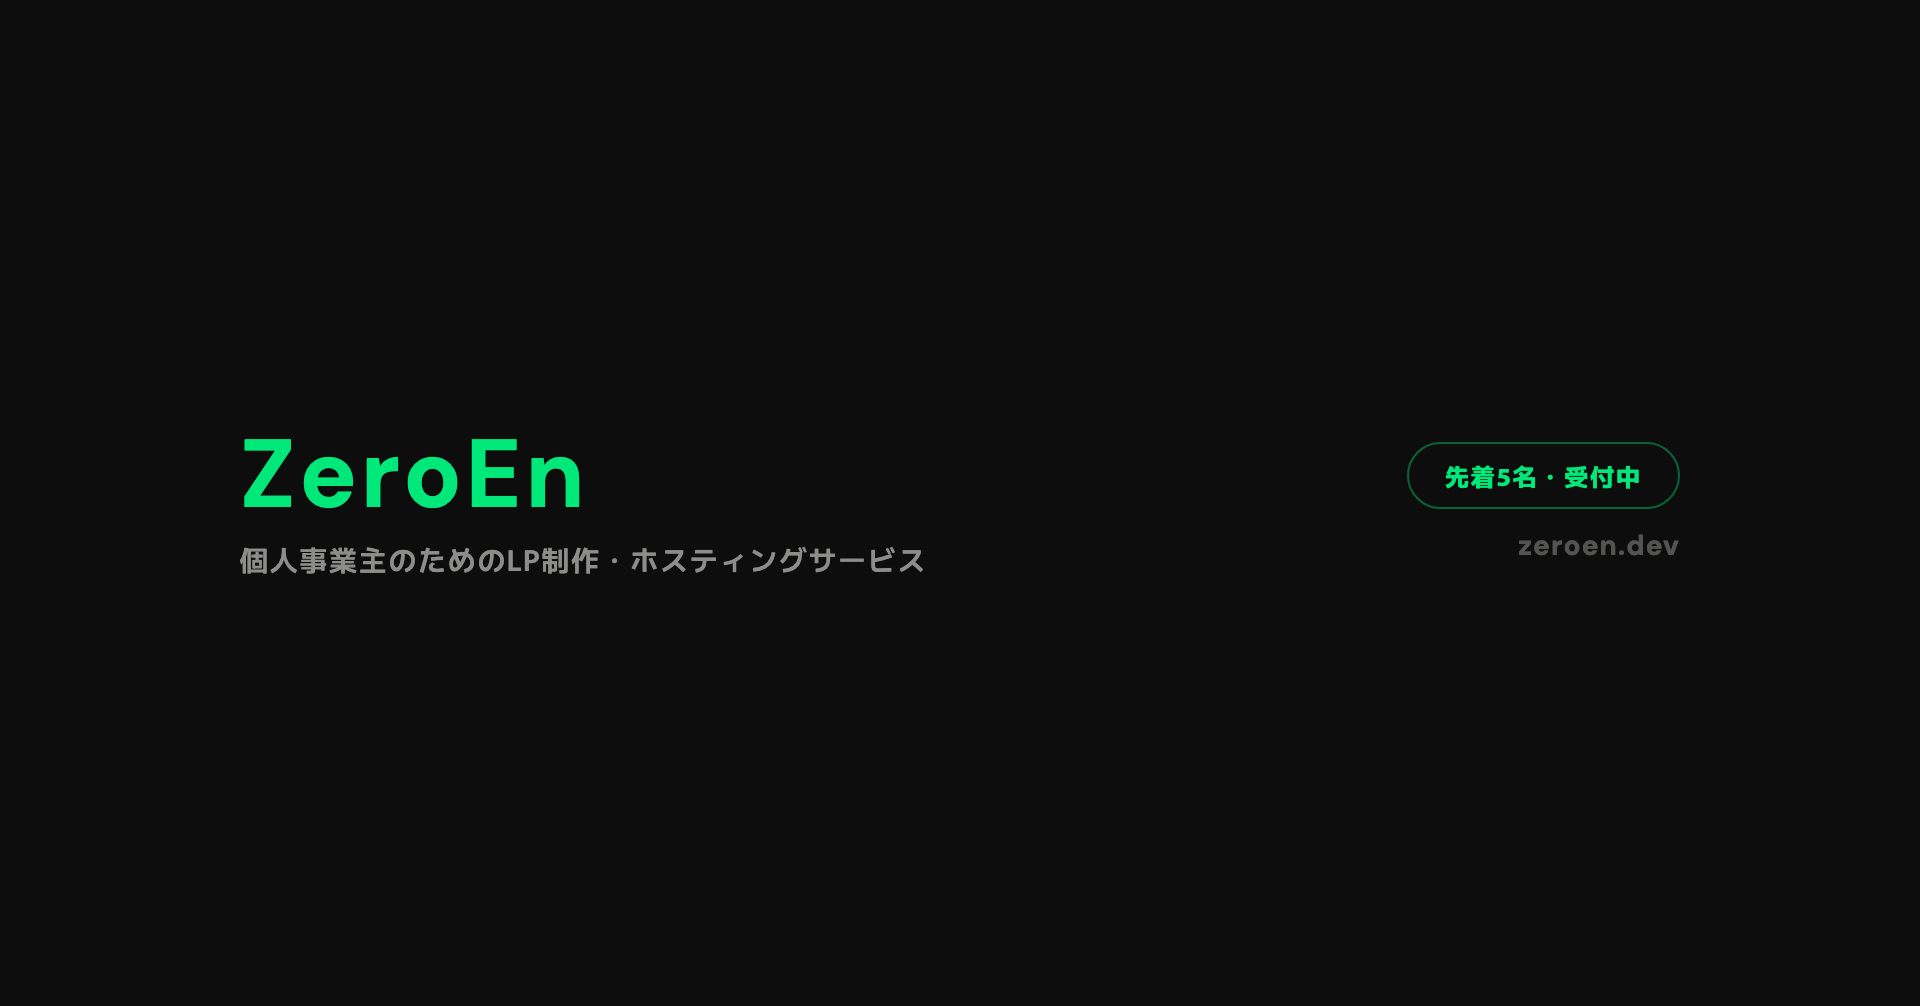
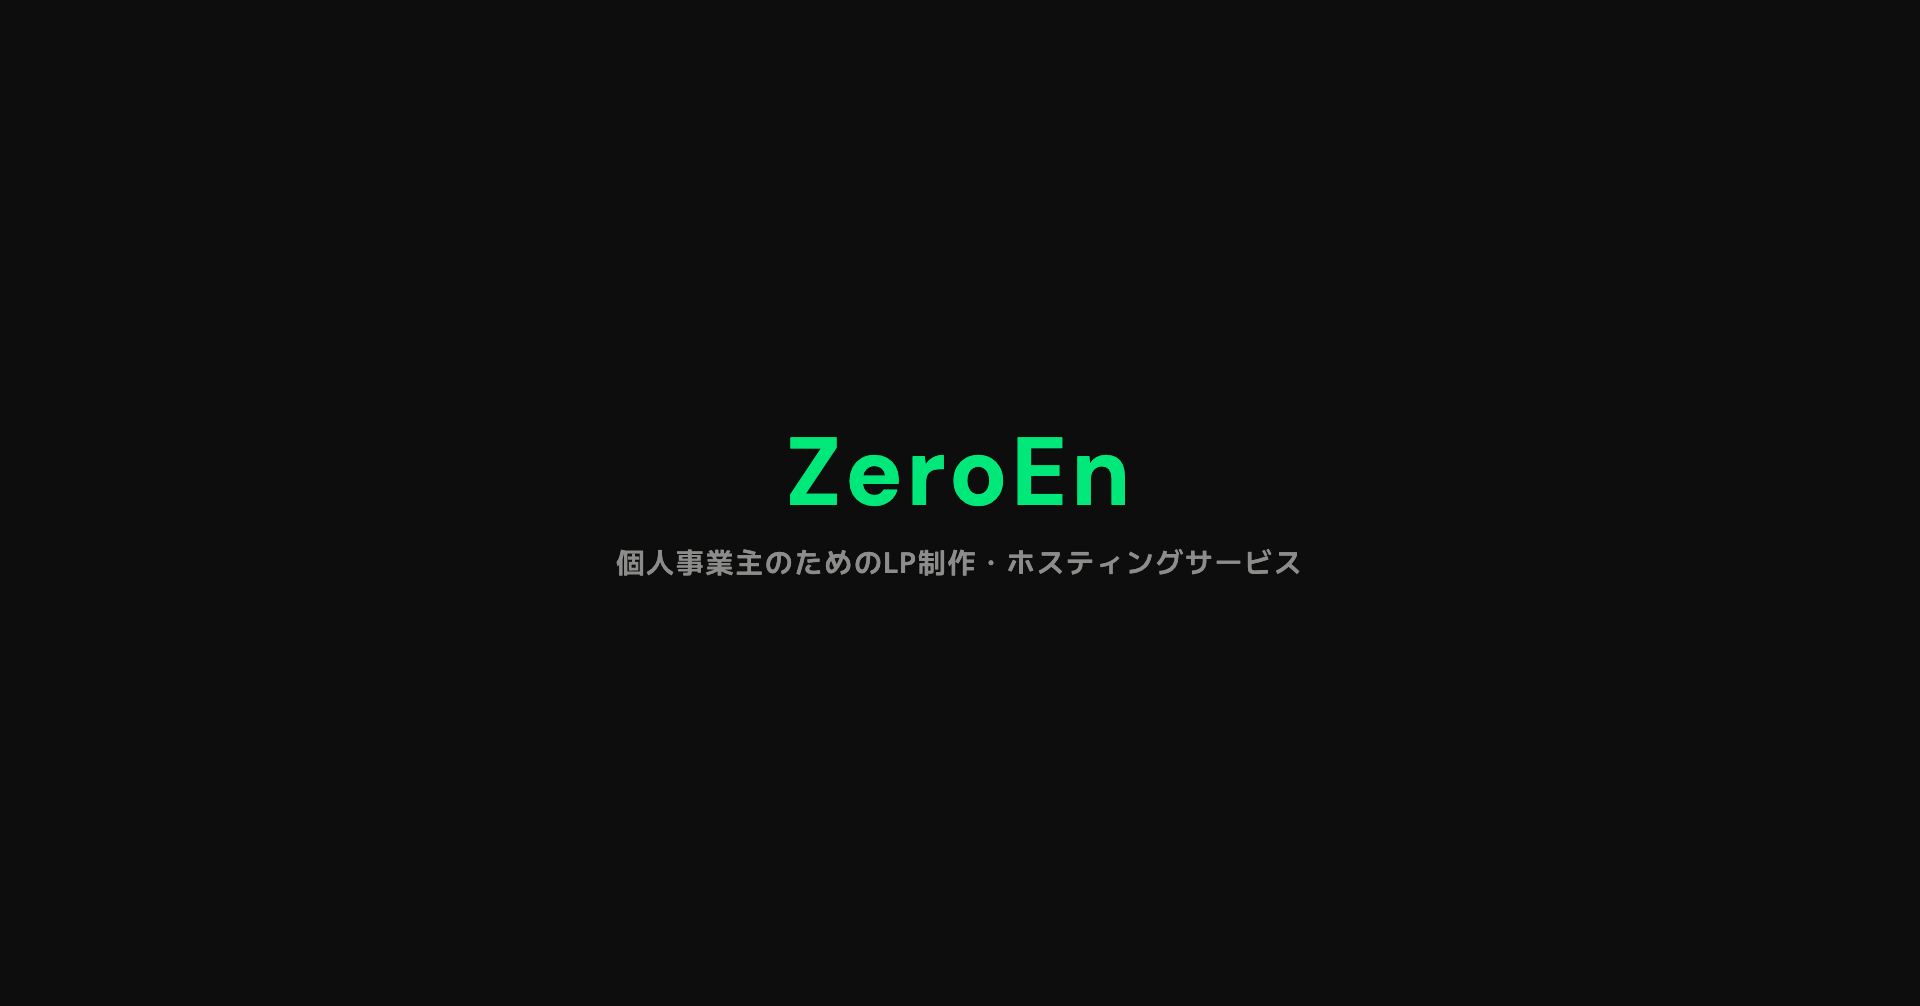
fix(marketing): remove 先着5名 badge from note header — wordmark + tagline only

Changed region(s): [[0.125, 0.4314, 0.6875, 0.5855], [0.75, 0.4622, 0.875, 0.493], [0.7812, 0.5239, 0.875, 0.5547]]

diff --git a/HQ/marketing/campaigns/2026-04-first-5/assets/note-header.html b/HQ/marketing/campaigns/2026-04-first-5/assets/note-header.html
@@ -4,22 +4,11 @@
 <style>
   *{box-sizing:border-box;margin:0;padding:0}
   html,body{background:#0D0D0D;width:1920px;height:1006px;overflow:hidden;
-    display:flex;align-items:center;justify-content:space-between;padding:0 120px}
-  .left{display:flex;flex-direction:column;gap:16px}
+    display:flex;align-items:center;justify-content:center;flex-direction:column;gap:20px}
   .wordmark{font-family:'DM Sans',sans-serif;font-weight:700;color:#00E87A;font-size:96px;letter-spacing:0.04em;line-height:1}
   .tagline{font-family:'Murecho','Hiragino Sans',sans-serif;font-weight:500;font-size:28px;color:#F4F4F2;opacity:0.55;letter-spacing:0.06em}
-  .right{display:flex;flex-direction:column;align-items:flex-end;gap:18px}
-  .badge{border:2px solid rgba(0,232,122,0.4);border-radius:999px;padding:14px 36px;
-    font-family:'Murecho','Hiragino Sans',sans-serif;font-size:24px;color:#00E87A;font-weight:700;letter-spacing:0.08em}
-  .url{font-family:'DM Sans',sans-serif;font-weight:700;font-size:28px;color:rgba(244,244,242,0.3);letter-spacing:0.04em}
 </style></head>
 <body>
-  <div class="left">
-    <div class="wordmark">ZeroEn</div>
-    <div class="tagline">個人事業主のためのLP制作・ホスティングサービス</div>
-  </div>
-  <div class="right">
-    <div class="badge">先着5名・受付中</div>
-    <div class="url">zeroen.dev</div>
-  </div>
+  <div class="wordmark">ZeroEn</div>
+  <div class="tagline">個人事業主のためのLP制作・ホスティングサービス</div>
 </body></html>
